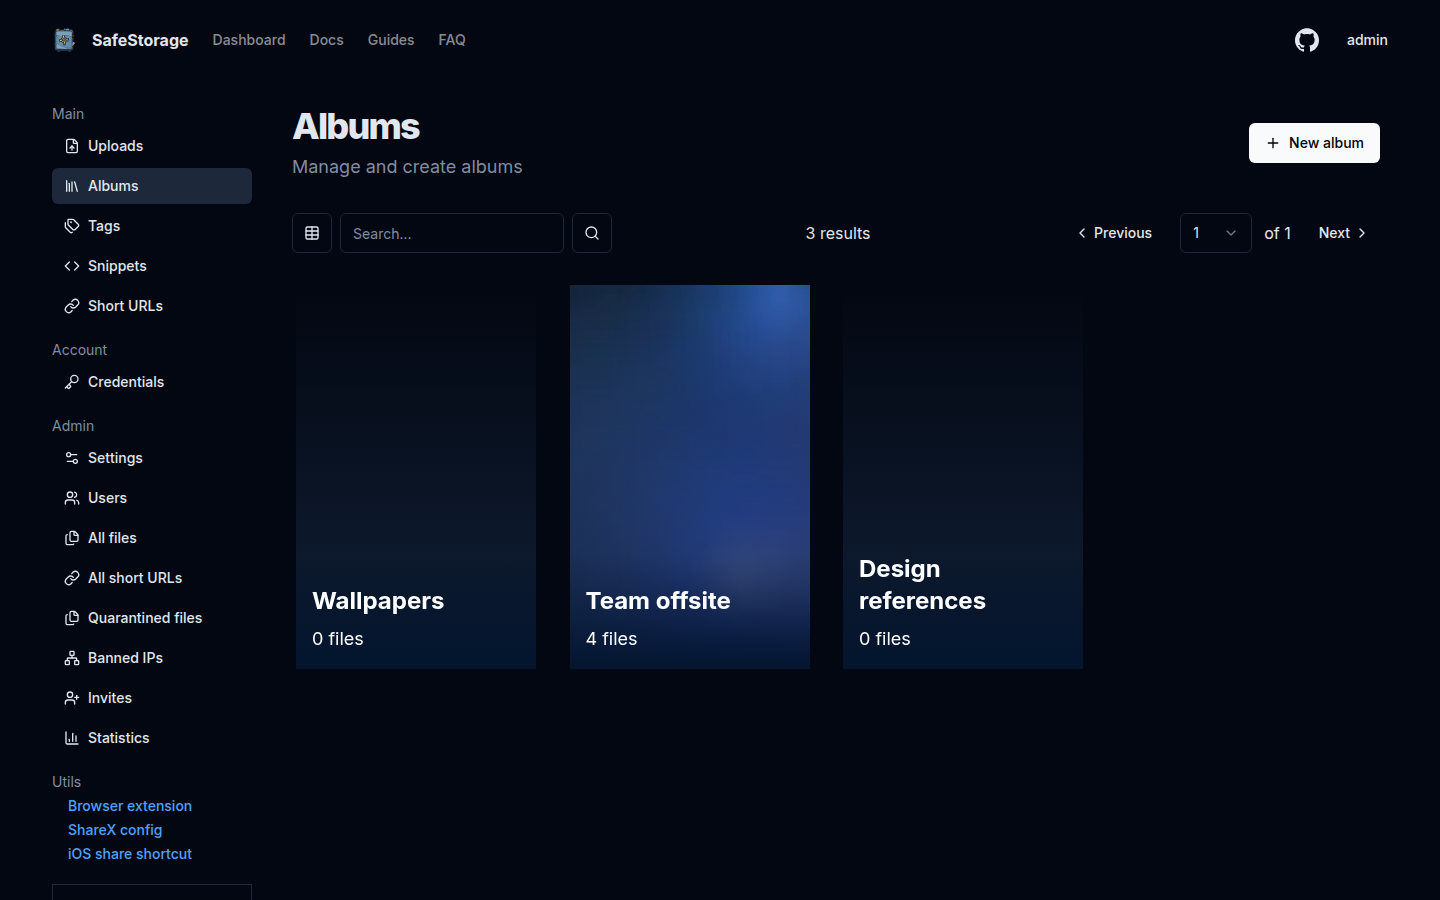
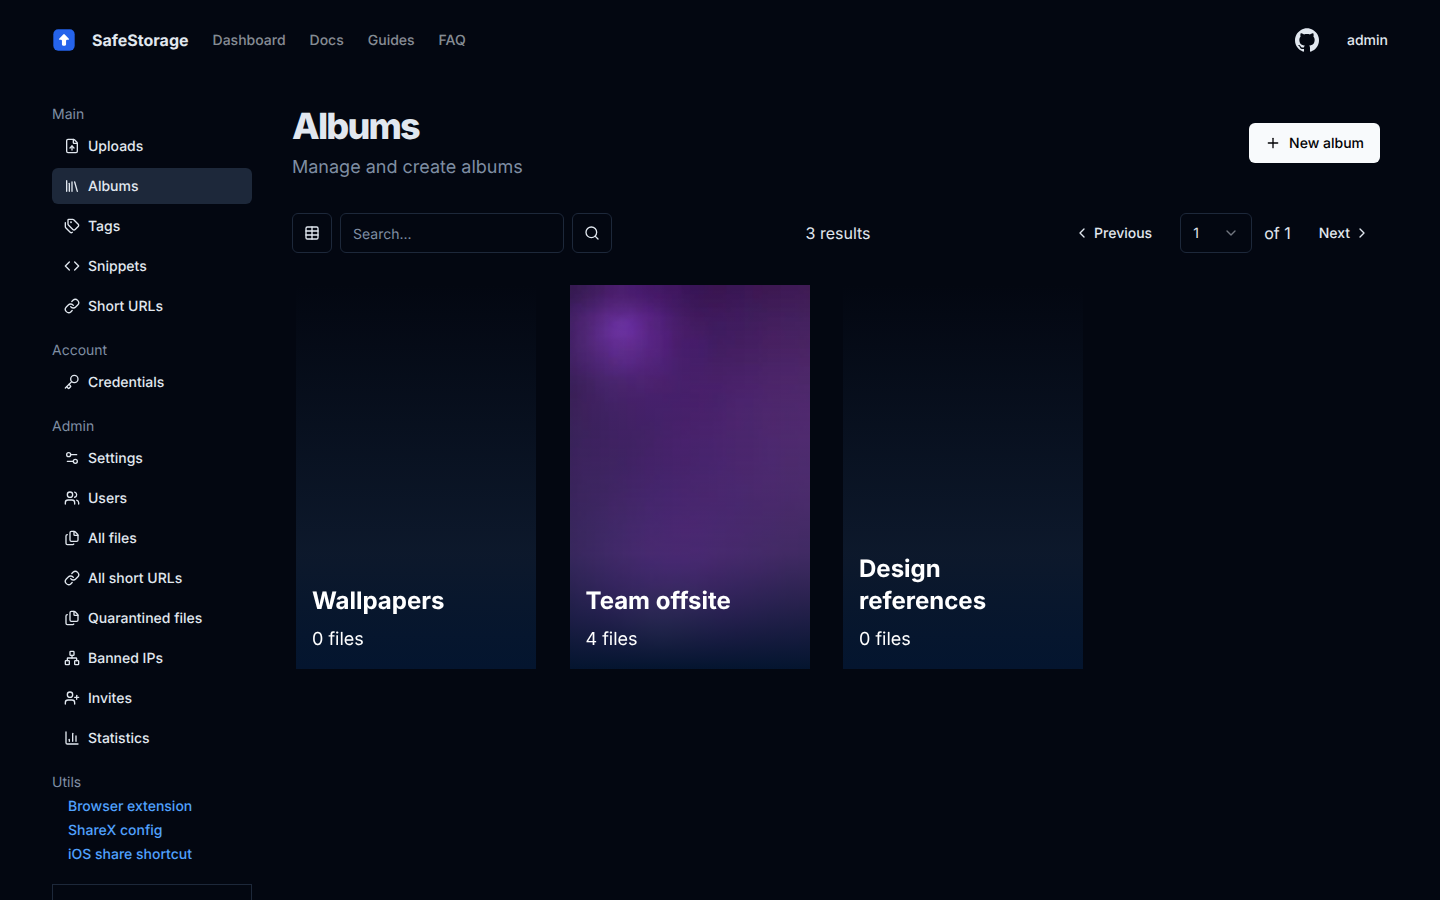
docs(screenshots): regenerate the README set with the new brand mark
The 14 generated images still showed the inherited chibisafe art, and because
they had not been re-captured since before the MariaDB switch they also still
showed the SQLite-era `snippet.png`. All of them were re-captured from an image
built from this checkout (`SAFESTORAGE_IMAGE=safestorage:local ./generate.sh`).

- docs/screenshots/*.png: regenerated; every page that renders the mark now
  shows the upload-arrow box (checked pixel-wise: square `#2563eb` plate in all
  of them; `api-docs.png` is the Scalar page, which never carried the logo)
- packages/next/src/app/og/route.tsx: square the logo boxes — `175px`/`184px`
  and the `234px`/`245px` defaults belonged to the old 234x245 art, and the new
  values (`175px`/`175px`, `208px`/`208px`) match the `w-44 h-44` / `w-52 h-52`
  boxes the admin-uploaded logo already used; the OG card was re-rendered and the
  mark is square and flush in both variants
- docs/screenshots/README.md: record that the committed set comes from a local
  build, since what is being documented usually lives in the source
- plans/2026-10-14-new-brand-icon.md: follow-up notes
- delete the stale `packages/next/.next` chunks that still held the old paths
  (build output, regenerable) — no file in the tree contains the old art now

diff --git a/packages/next/src/app/og/route.tsx b/packages/next/src/app/og/route.tsx
@@ -83,7 +83,9 @@ export async function GET(request: Request) {
 							<img tw="w-44 h-44" src={data.logoURL} />
 						</picture>
 					) : (
-						<SafeStorageDefaultLogo width="175px" height="184px" />
+						// Square, like the mark itself: the old art was 234x245, so a
+						// non-square box would now letterbox it.
+						<SafeStorageDefaultLogo width="175px" height="175px" />
 					)}
 
 					<h1
@@ -106,7 +108,8 @@ export async function GET(request: Request) {
 						</picture>
 					) : (
 						<picture tw="mt-4">
-							<SafeStorageDefaultLogo />
+							{/* Same square box as the `w-52 h-52` custom-logo sibling above. */}
+							<SafeStorageDefaultLogo width="208px" height="208px" />
 						</picture>
 					)}
 					<h1 tw="text-[100px] text-white" style={{ fontFamily: 'CalSans' }}>

diff --git a/plans/2026-10-14-new-brand-icon.md b/plans/2026-10-14-new-brand-icon.md
@@ -39,11 +39,14 @@ Geometry (identical in all three source files):
 | `packages/next/scripts/generate-icons.mjs` | new reproducible generator (`sharp` + a hand-rolled PNG-in-ICO writer) |
 | `packages/next/package.json` | added the `icons` script |
 
-Consumers were **not** touched: `Header.tsx`, `Footer.tsx`, `(home)/page.tsx`,
-the auth pages and `app/og/route.tsx` import the component, and the raster files
-keep their names/sizes, so `layout.tsx`, `site.webmanifest` and
-`browserconfig.xml` need no edits either. `logo.svg` is not imported by any code
-— it stays as the public master the raster set is generated from.
+Consumers mostly stayed untouched, because they import the component and the
+raster files keep their names/sizes — so `layout.tsx`, `site.webmanifest` and
+`browserconfig.xml` need no edits, and `Header.tsx`, `Footer.tsx`,
+`(home)/page.tsx` and the auth pages only size the mark through `className`.
+`app/og/route.tsx` was the exception: it had the *old* aspect ratio baked into
+its boxes (`175px`/`184px`, plus the `234px`/`245px` component defaults), so both
+are square now. `logo.svg` is not imported by any code — it stays as the public
+master the raster set is generated from.
 
 ## Notes
 
@@ -53,10 +56,34 @@ keep their names/sizes, so `layout.tsx`, `site.webmanifest` and
   dependency was added.
 - Raster sizes are unchanged from before: 16/32, 180 (Apple), 192/512 (PWA),
   270 for `mstile-150x150.png` (the file was already 270×270), ICO 16/32/48.
-- `app/og/route.tsx` passes `width="175px" height="184px"`; with a square
-  `viewBox` and the default `xMidYMid meet` this letterboxes by a couple of
-  pixels — harmless, and the file was left untouched.
+- `app/og/route.tsx` carried the old aspect ratio in its boxes (`175px`/`184px`
+  for the section variant and the `234px`/`245px` component defaults). Both are
+  square now, and they match the boxes the admin-uploaded logo already used:
+  `175px`/`175px` mirrors `w-44 h-44` and `208px`/`208px` mirrors `w-52 h-52`,
+  so the OG card is the same size with or without a custom logo.
 - Regenerate the rasters any time with
   `yarn workspace @safestorage/next icons`.
 - Verified: `typecheck` and `lint` pass; rasterised pixels confirm the plate is
   `#2563eb`, the arrow white and the corners transparent.
+
+## Follow-up: README screenshots
+
+The 14 images in [`docs/screenshots`](../docs/screenshots) are generated, so they
+still showed the old mark — and, because they had not been re-captured since
+before the MariaDB switch, a stale SQLite-era `snippet.png`. All of them were
+regenerated from an image built from this checkout:
+
+```bash
+docker build -t safestorage:local .
+cd docs/screenshots
+SAFESTORAGE_IMAGE=safestorage:local ./generate.sh
+```
+
+Beyond the mark itself this also picks up the MariaDB-era demo snippet, so the
+committed set now matches the source. `api-docs.png` has no brand mark in it (the
+Scalar page is served by the backend) and was regenerated like the rest.
+
+The stale build output that still contained the old paths
+(`packages/next/.next`, ~1 GB of regenerable chunks) was deleted; the tree no
+longer holds a single copy of the old art.
+

diff --git a/docs/screenshots/README.md b/docs/screenshots/README.md
@@ -33,6 +33,17 @@ throwaway container with temporary volumes, seeds it with **synthetic demo
 data**, captures the pages above and then removes everything (container and
 data) again. Nothing from a real instance ends up in the images.
 
+The committed set was captured from an image **built from the checkout** instead:
+
+```bash
+docker build -t safestorage:local .                 # repository root
+cd docs/screenshots
+SAFESTORAGE_IMAGE=safestorage:local ./generate.sh
+```
+
+That is what you want whenever the change being documented lives in the source —
+a published image only ever shows the state of its own release.
+
 `authMethod` is resolved on the server from `AUTH_METHOD`, so the single sign-on
 login screen cannot be captured from the same instance as the account form. The
 script therefore boots a **second** throwaway container with
